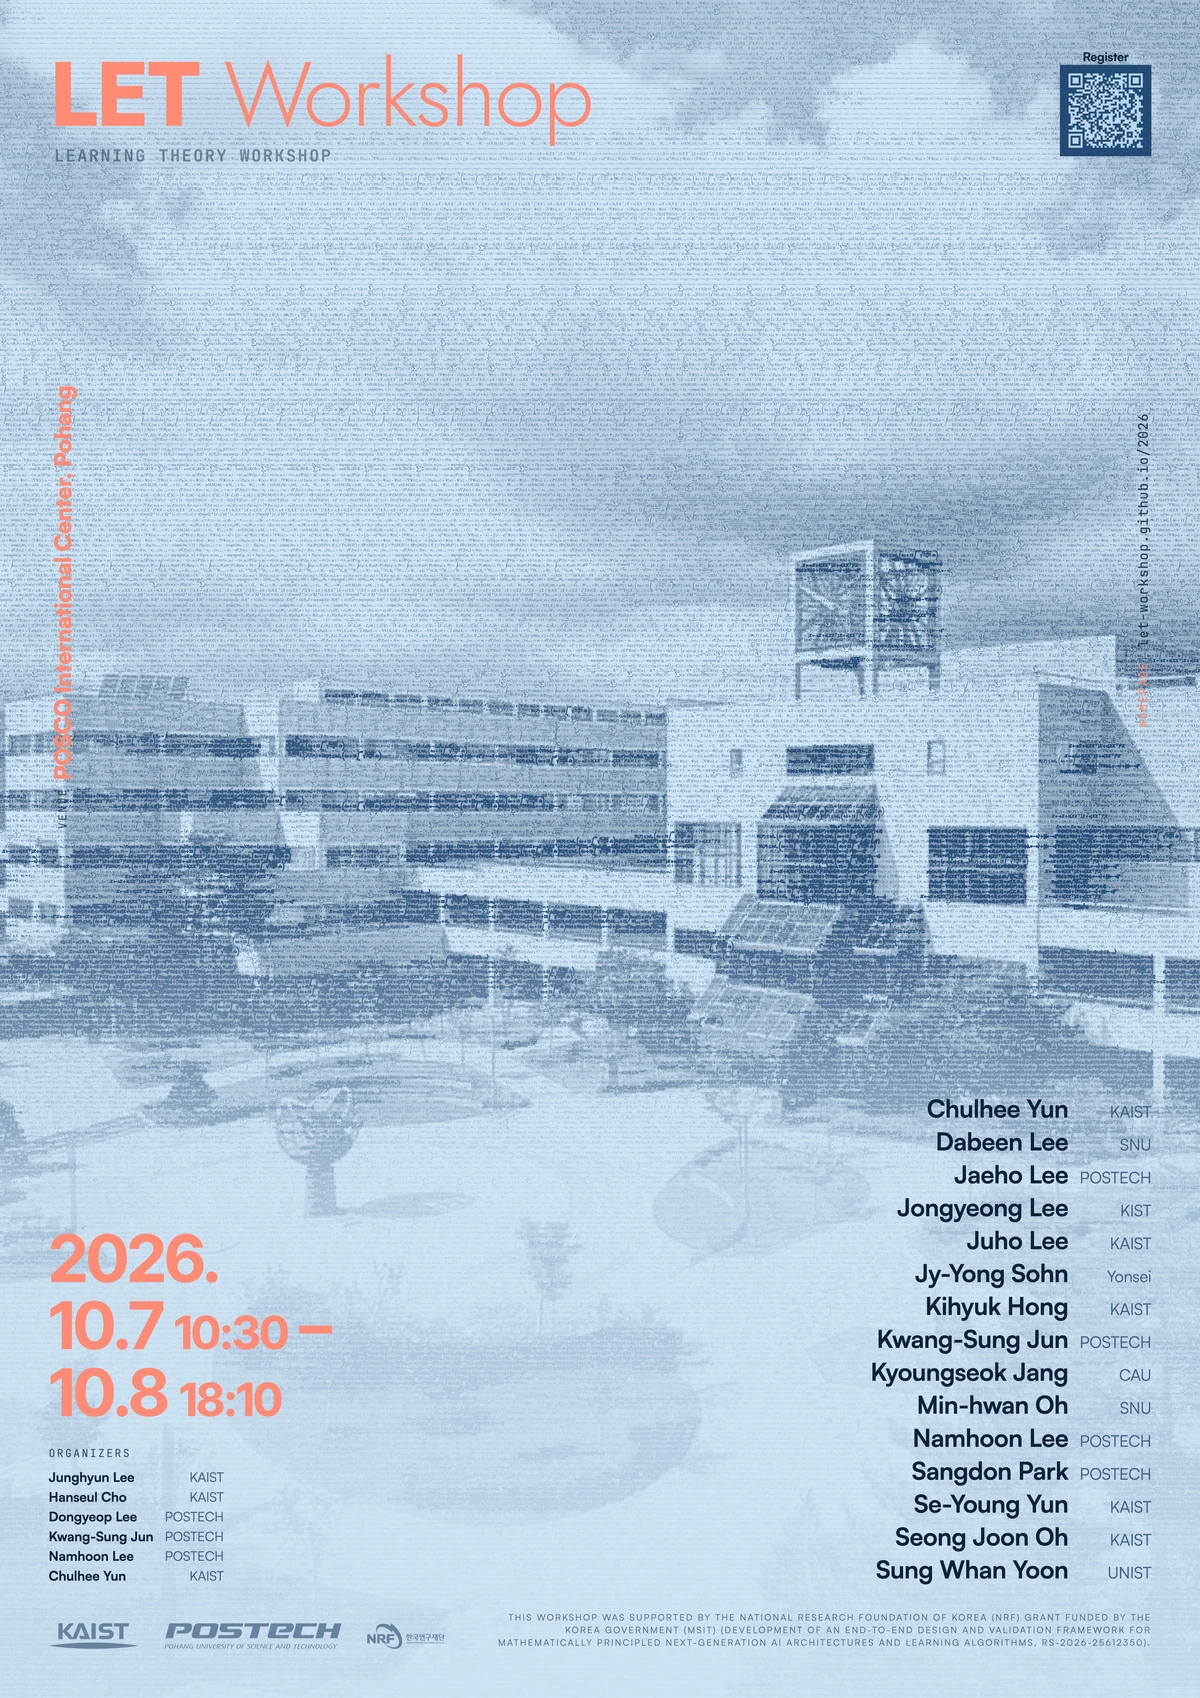
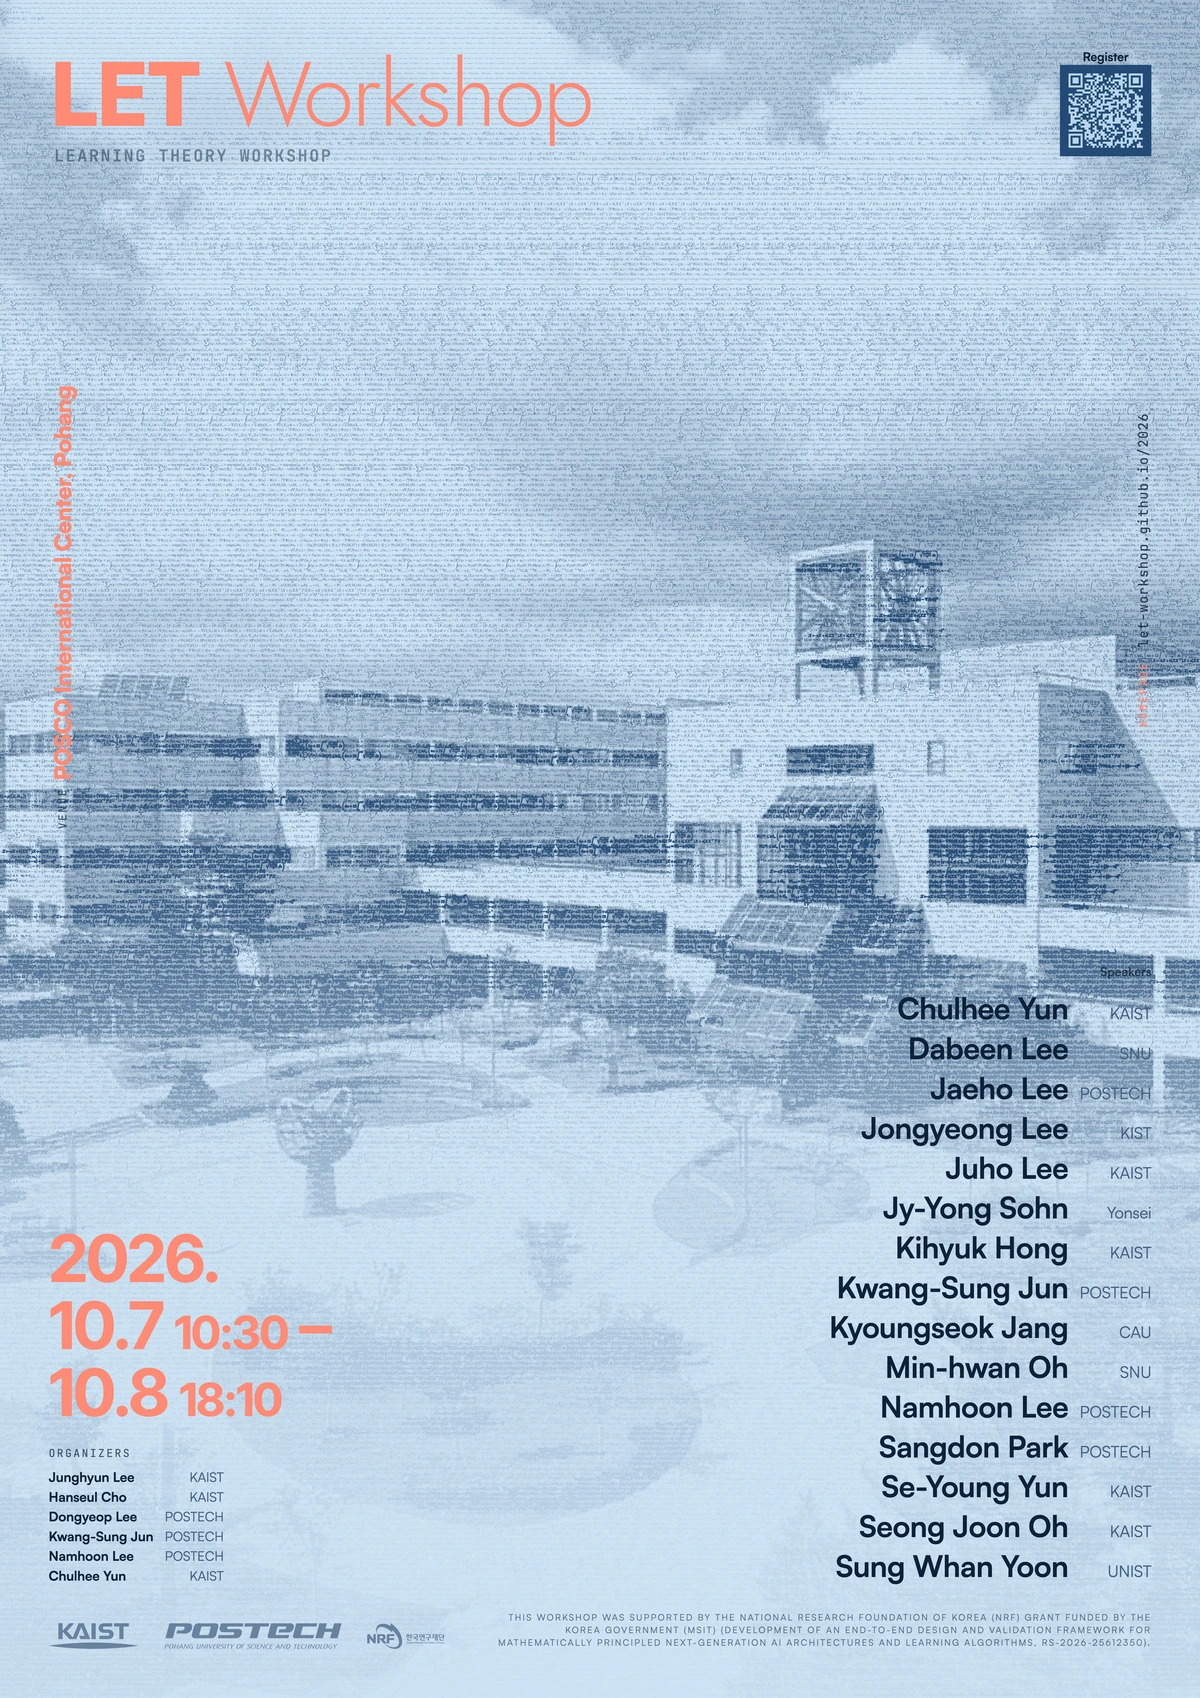
Name the sheet's list, set it larger, and drop "details are tentative"
The names are what the sheet is for and they were set smaller than the date
beside them. 10.4mm now, up from 8.6: the list grows upward from a fixed foot,
so the ceiling is where the panel begins rather than the width of the column,
and at this size the block still opens 37mm below it.

They also get a heading. It was the one list on the sheet a reader had to work
out for themselves, while the column opposite has said Organizers over its
names all along.

And the poster section drops "details are tentative", from beside the heading
and from the caption under the sheets. It was there while the sessions and
hours were still moving; the programme says so for itself now, and only about
the part that still is — which speaker goes where.

Changed region(s): [[0.6783, 0.5931, 0.9558, 0.9364]]

diff --git a/tools/poster.py b/tools/poster.py
@@ -842,6 +842,13 @@ FESTIVAL = """<!doctype html>
      longer occupy any. */
   .panel {{ margin-top:auto; }}
   .bill {{ margin:0 0 0 auto; text-align:right; }}
+  /* Named, like the organisers are. The block underneath was the only list on
+     the sheet a reader had to work out for themselves; the column opposite has
+     said Organizers over its names all along. Set against the right edge,
+     because that is the edge this half is set against. */
+  .bill h4 {{
+    color:{ink}; opacity:.72; margin:0 0 3mm; text-align:right;
+  }}
 
   /* The rule and the space between sessions live on the label, because a
      display:contents element cannot carry either. */
@@ -879,8 +886,12 @@ FESTIVAL = """<!doctype html>
   .prog-grid i.dayrow {{
     grid-column:1 / -1; justify-self:end; text-align:right; padding-top:0.5mm;
   }}
+  /* 10.4mm. The names are what the sheet is for and they were set smaller
+     than the date beside them; the list grows upward from a fixed foot, so the
+     size is bounded by where the panel begins rather than by the column, and
+     at 10.4 the block still opens 37mm below that. */
   .prog-grid em {{
-    font-style:normal; font-family:"Satoshi","Helvetica Neue",sans-serif; font-size:8.6mm;
+    font-style:normal; font-family:"Satoshi","Helvetica Neue",sans-serif; font-size:10.4mm;
     font-weight:700; line-height:1.34; letter-spacing:-.012em; color:{ink};
     white-space:nowrap;
   }}
@@ -1014,7 +1025,7 @@ FESTIVAL = """<!doctype html>
           <h4>Organizers</h4>
           <div class="orgs">{organisers}</div>
         </div>
-        <div class="bill"><div class="prog-grid">{programme}</div></div>
+        <div class="bill"><h4>Speakers</h4><div class="prog-grid">{programme}</div></div>
       </div>
       <div class="foot">
         <span class="marks">{logos}</span>
